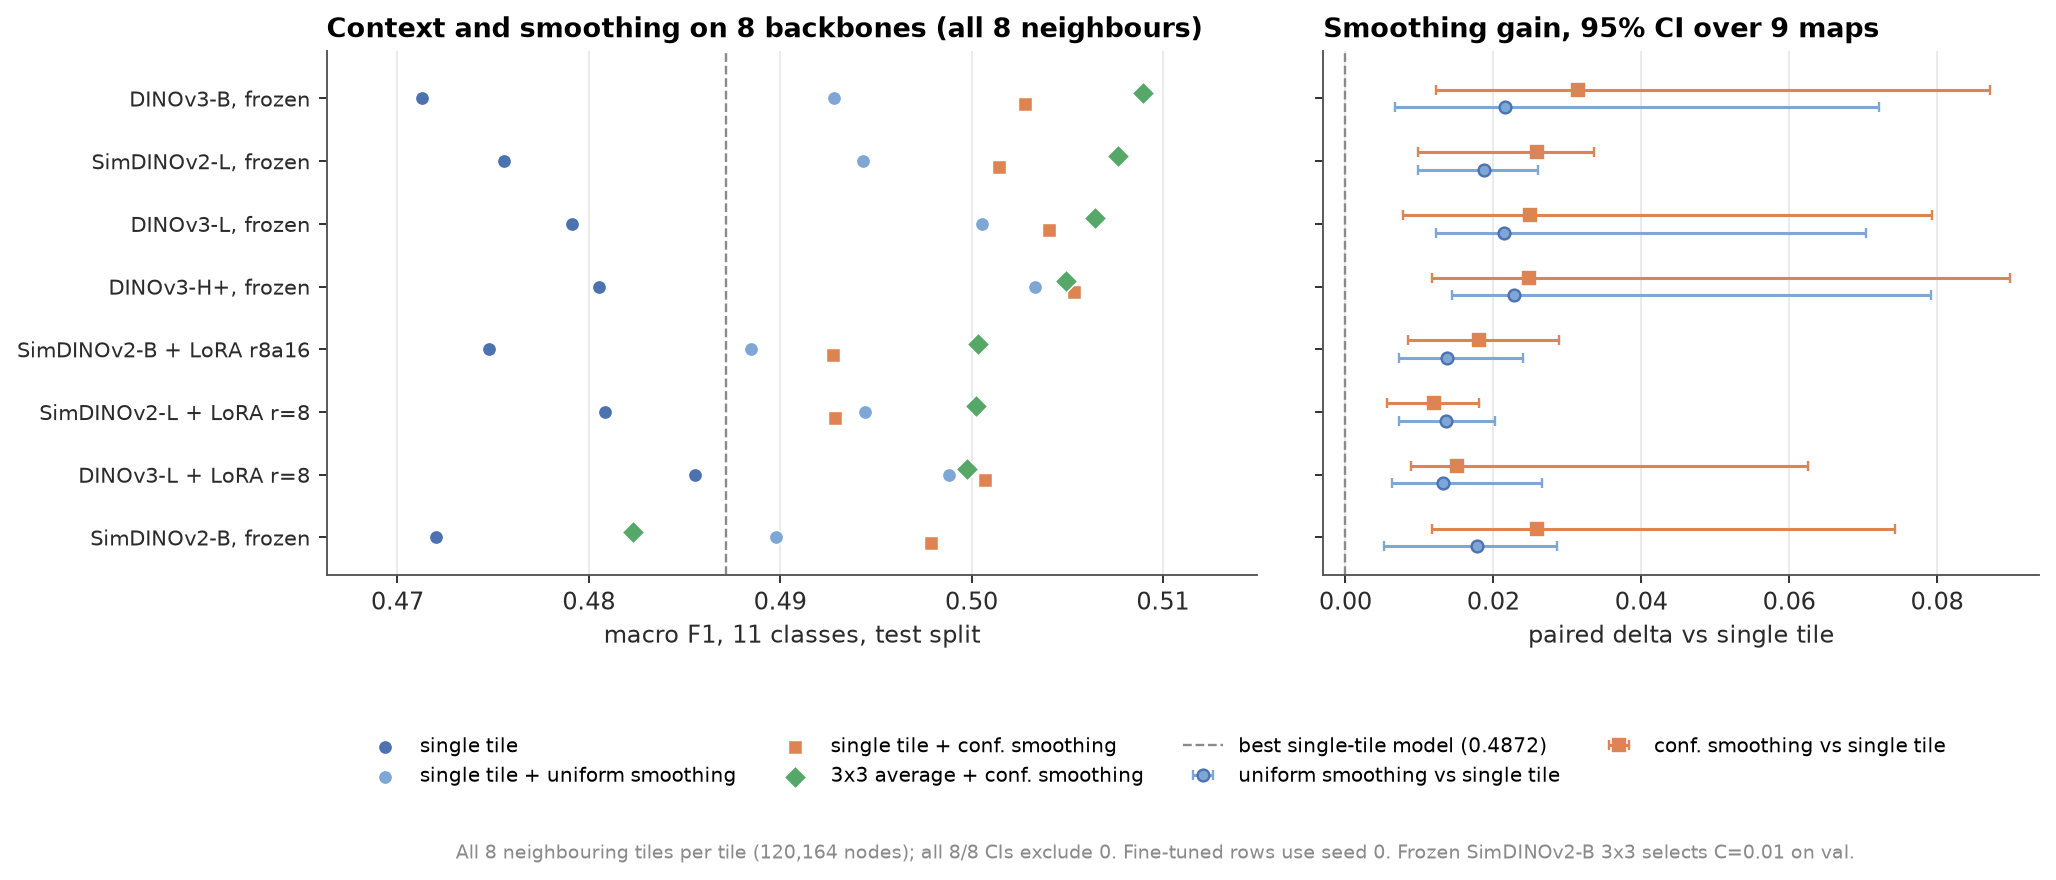
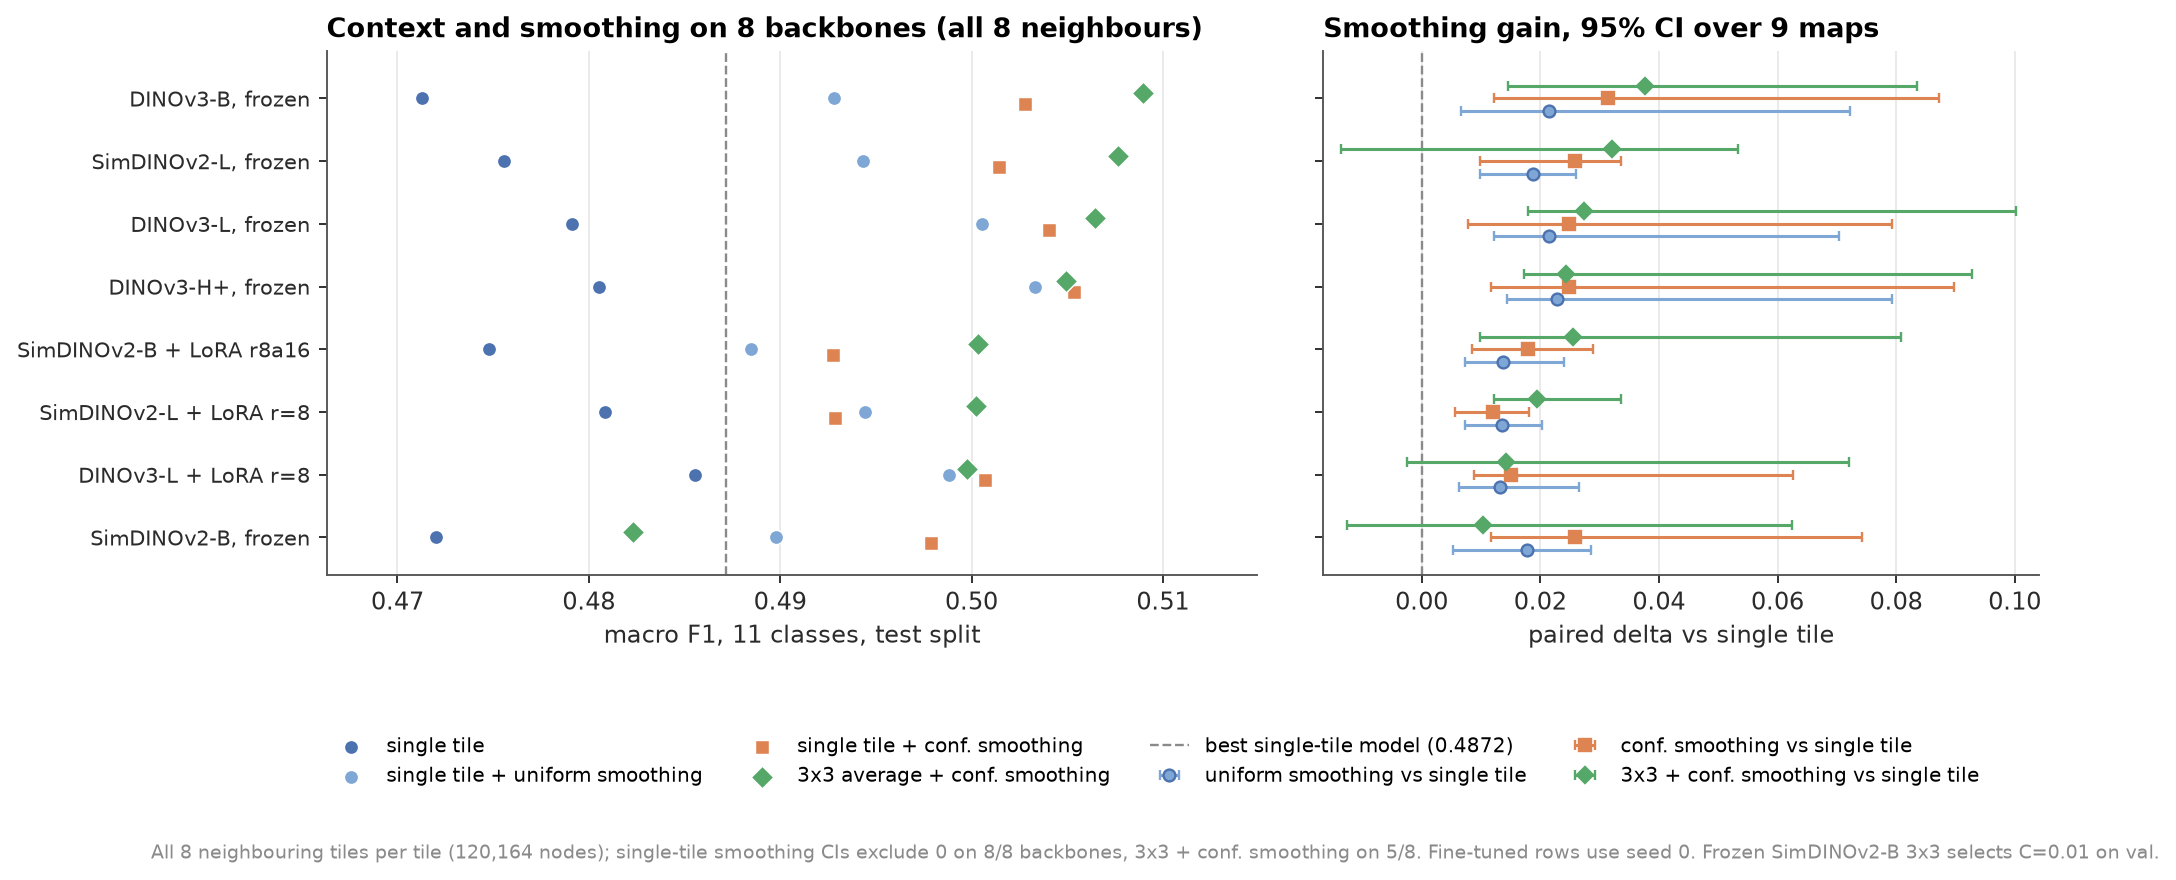
Add R3_Wconf vs R0 hierarchical bootstrap CIs and plot in figure 09

diff --git a/scripts/make_readme_plots.py b/scripts/make_readme_plots.py
@@ -899,8 +899,8 @@ def fig_multibackbone():
                bbox_to_anchor=(0.5, 0.075))
     fig.subplots_adjust(bottom=0.32)
     fig.text(0.5, 0.012,
-             "All 8 neighbouring tiles per tile (120,164 nodes); all 8/8 CIs exclude 0. "
-             "Fine-tuned rows use seed 0. Frozen SimDINOv2-B 3x3 selects C=0.01 on val.",
+             "All 8 neighbouring tiles per tile (120,164 nodes); single-tile smoothing CIs exclude 0 on 8/8 backbones, "
+             "3x3 + conf. smoothing on 5/8. Fine-tuned rows use seed 0. Frozen SimDINOv2-B 3x3 selects C=0.01 on val.",
              fontsize=8, color=COL["grey"], va="bottom", ha="center")
     save(fig, "09_multibackbone.png")
 

diff --git a/README.md b/README.md
@@ -10,7 +10,7 @@ The goal is to classify 224 px tiles (~0.5 m across) cropped from Arctic tundra 
 Main results:
 
 - Across the DINOv3 and SimDINOv2 models, changing model size or fine-tuning moves macro F1 by at most 0.015. With 9 test orthomosaics, none of these models is significantly different from the best frozen backbone. Only the weakest baselines stand out: SatMAE, frozen ResNet-50 ImageNet, and ViT-B/16 trained from scratch.
-- Using spatial smoothing across all 8 neighbouring tiles (including unannotated tiles outside the transects, so deployable on new orthomosaics) raises single-tile macro F1 by +0.012 to +0.031 across all 8 backbones (all 8/8 paired 95% CIs exclude zero). Combining a 3x3 average with confidence-weighted smoothing reaches 0.5089 (11 classes) / 0.6998 (8 classes) on frozen DINOv3-B (+0.0376 over single tile), matching a frozen two-view tile + 512 px (~1.1 m) context setup (0.5058). No backbone training is required; only the linear probe is refit.
+- Using spatial smoothing across all 8 neighbouring tiles (including unannotated tiles outside the transects, so deployable on new orthomosaics) raises single-tile macro F1 by +0.012 to +0.031 across all 8 backbones (all 8/8 paired 95% CIs exclude zero). Combining a 3x3 average with confidence-weighted smoothing reaches 0.5089 (11 classes) / 0.6998 (8 classes) on frozen DINOv3-B (+0.0376 over single tile, 95% CI [+0.015, +0.083], p = 0.013; 5/8 backbones exclude zero), matching a frozen two-view tile + 512 px (~1.1 m) context setup (0.5058). No backbone training is required; only the linear probe is refit.
 - Learned neighbour aggregation (self-attention, CNN, GATv2) does not beat fixed averaging or smoothing. Using larger native-resolution crops (384–1024 px without resizing) helps isolated tiles (+0.016 to +0.024) but does not beat tile + 512 px context and hurts 3x3 averaging, smoothing, and GATv2 because adjacent crops overlap too much.
 - Restricting smoothing to annotated neighbours only ("good neighbours" along transects) reaches 0.5306–0.5394, but no classifier or edge weighting separates annotated from off-transect neighbours at test time, so real-world smoothing stays around 0.505–0.509.
 - Embedding geometry metrics can rank models slightly better than chance, but they do not predict F1 accurately.
@@ -133,7 +133,7 @@ All numbers below use the full 8-neighbour graph (120,164 nodes, no annotation m
 
 *\*On frozen SimDINOv2-B 3x3 average, validation selects `C = 0.01` instead of `0.001`.*
 
-- Smoothing gives a statistically significant gain on all 8 backbones (all 95% hierarchical bootstrap CIs exclude zero): +0.013 to +0.023 for uniform smoothing (p <= 0.015), and +0.012 to +0.031 for confidence-weighted smoothing (p <= 0.010).
+- Single-tile smoothing gives a statistically significant gain on all 8 backbones (all 8/8 hierarchical bootstrap 95% CIs exclude zero): +0.013 to +0.023 for uniform smoothing (p <= 0.015), and +0.012 to +0.031 for confidence-weighted smoothing (p <= 0.010). Combining 3x3 averaging with confidence-weighted smoothing excludes zero on 5 of 8 backbones, including the headline frozen DINOv3-B winner (+0.0376, CI [+0.015, +0.083], p = 0.013).
 - All deployable context setups converge to roughly the same 0.505–0.509 range: 3x3 + confidence smoothing (0.5089), single tile + confidence smoothing on DINOv3-H+ (0.5053, only one 224 px forward pass per tile), frozen tile + 512 px context (0.5058), and native high-resolution fusion (0.5046).
 
 <details>

diff --git a/research/tile_context_fullgraph_2026-11-26/README.md b/research/tile_context_fullgraph_2026-11-26/README.md
@@ -14,7 +14,7 @@ Full replication of the 8-backbone smoothing table (`out/multibackbone_smoothing
 
 ## Summary
 
-1. The best deployable score reaches 0.5089 (11 classes) and 0.6998 (8 classes) with frozen DINOv3-B (`3x3 average + confidence-weighted smoothing`), followed by frozen SimDINOv2-L (0.5076), DINOv3-L (0.5065), and DINOv3-H+ single tile + confidence smoothing (0.5053), matching the frozen 512 px zoom-out fusion baseline (0.5058).
-2. Smoothing improves macro F1 across all 8 backbones (all 95% CIs exclude zero): +0.013 to +0.023 for uniform mean-field (p <= 0.015), and +0.012 to +0.031 for confidence-weighted smoothing (p <= 0.010).
+1. The best deployable score reaches 0.5089 (11 classes) and 0.6998 (8 classes) with frozen DINOv3-B (`3x3 average + confidence-weighted smoothing`, +0.0376 over single tile, 95% CI [+0.015, +0.083], p = 0.013), followed by frozen SimDINOv2-L (0.5076), DINOv3-L (0.5065), and DINOv3-H+ single tile + confidence smoothing (0.5053), matching the frozen 512 px zoom-out fusion baseline (0.5058).
+2. Single-tile smoothing improves macro F1 across all 8 backbones (8/8 95% CIs exclude zero): +0.013 to +0.023 for uniform mean-field (p <= 0.015), and +0.012 to +0.031 for confidence-weighted smoothing (p <= 0.010). Combining 3x3 averaging with confidence-weighted smoothing excludes zero on 5/8 backbones (`d_r3wconf_R0`).
 3. The small single-tile PEFT edge disappears and turns slightly negative across all 3 pairs under confidence-weighted smoothing (-0.0034 to -0.0086).
 4. Restricting smoothing to annotated transect neighbours only (6.53 neighbours/tile) inflates F1 to 0.5306-0.5394 (+0.025 to +0.035), and neither a domain classifier (val AUC 0.642, test F1 0.4967) nor a supervised edge-utility classifier (val AUC 0.792, test F1 0.4975) recovers that gap over simple confidence weighting (0.4978; see `research/gnn_grid_2026-10-31/out/decoding_full/weighted_fullgraph.json`).
